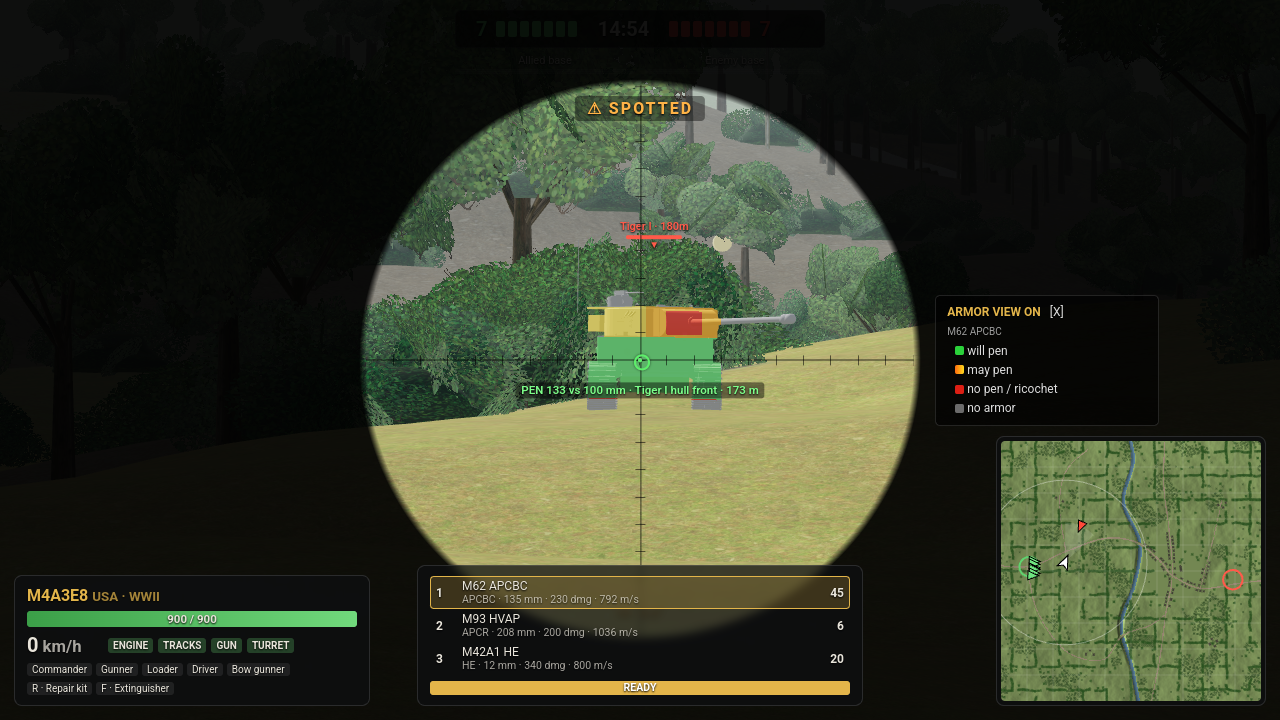
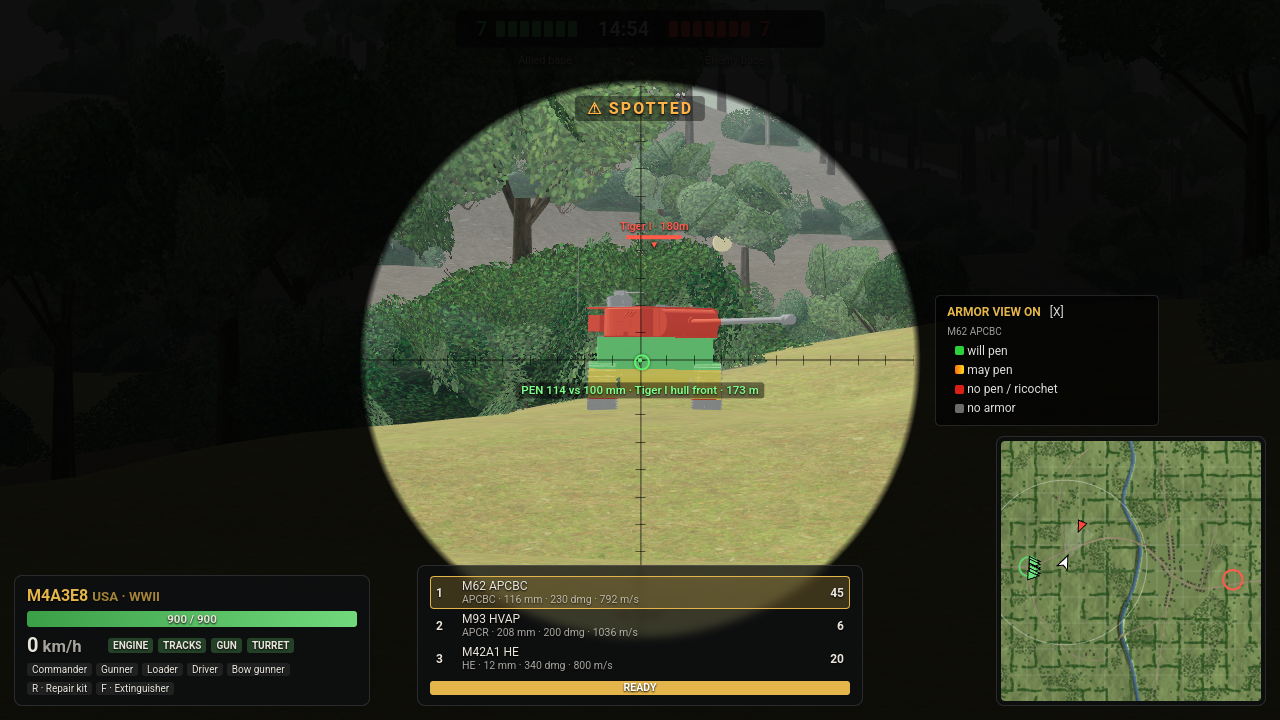
v2 release: armor shots regenerated, credits v2, zip

Changed region(s): [[0.4375, 0.4278, 0.5625, 0.5806]]

diff --git a/CREDITS.md b/CREDITS.md
@@ -1,4 +1,4 @@
-# Credits & Licenses — Steel Front (tank-war) v1
+# Credits & Licenses — Steel Front (tank-war) v2
 
 ## Code
 - All game code (src/) — written for this project.

diff --git a/public/CREDITS.md b/public/CREDITS.md
@@ -1,4 +1,4 @@
-# Credits & Licenses — Steel Front (tank-war) v1
+# Credits & Licenses — Steel Front (tank-war) v2
 
 ## Code
 - All game code (src/) — written for this project.
